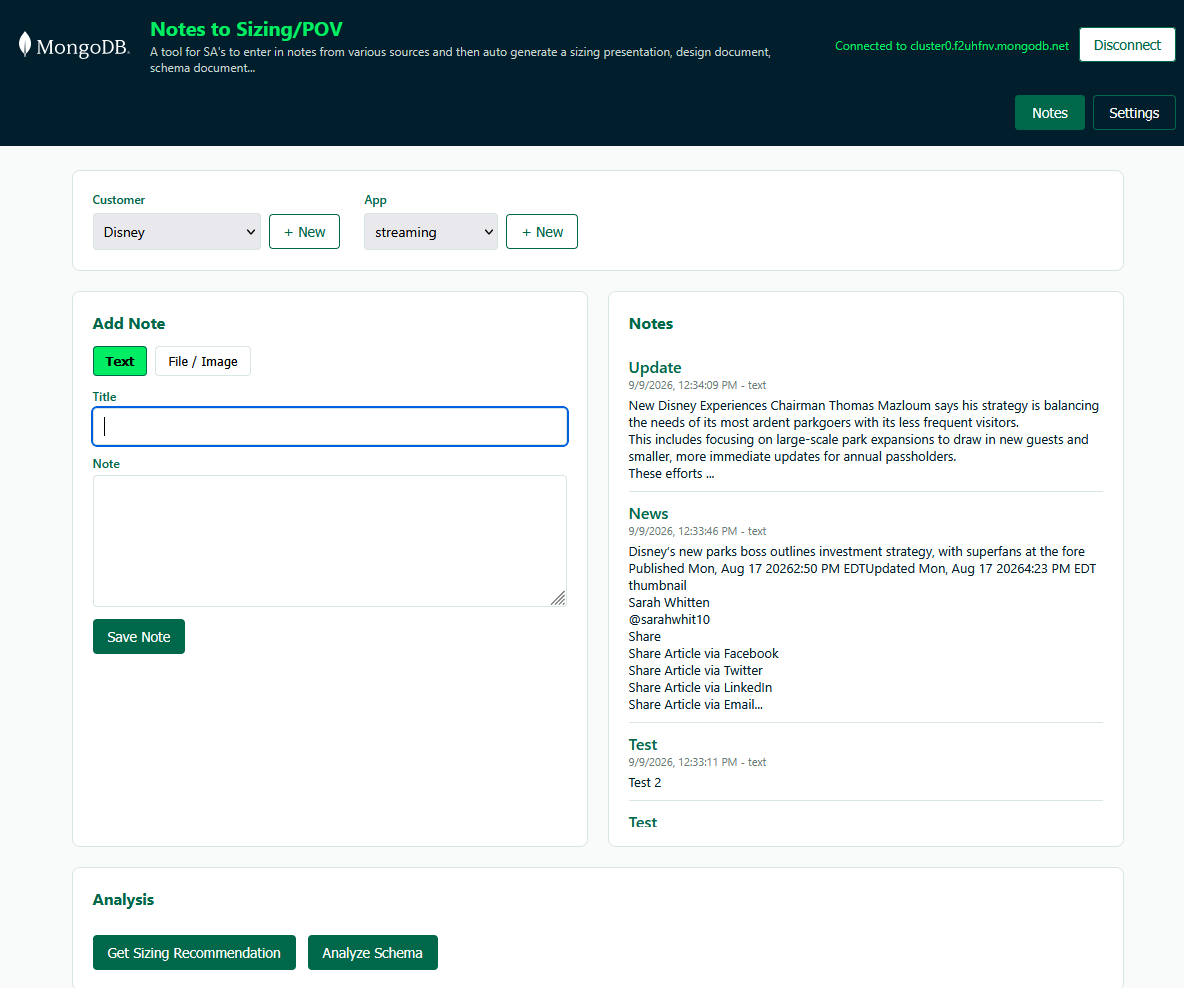
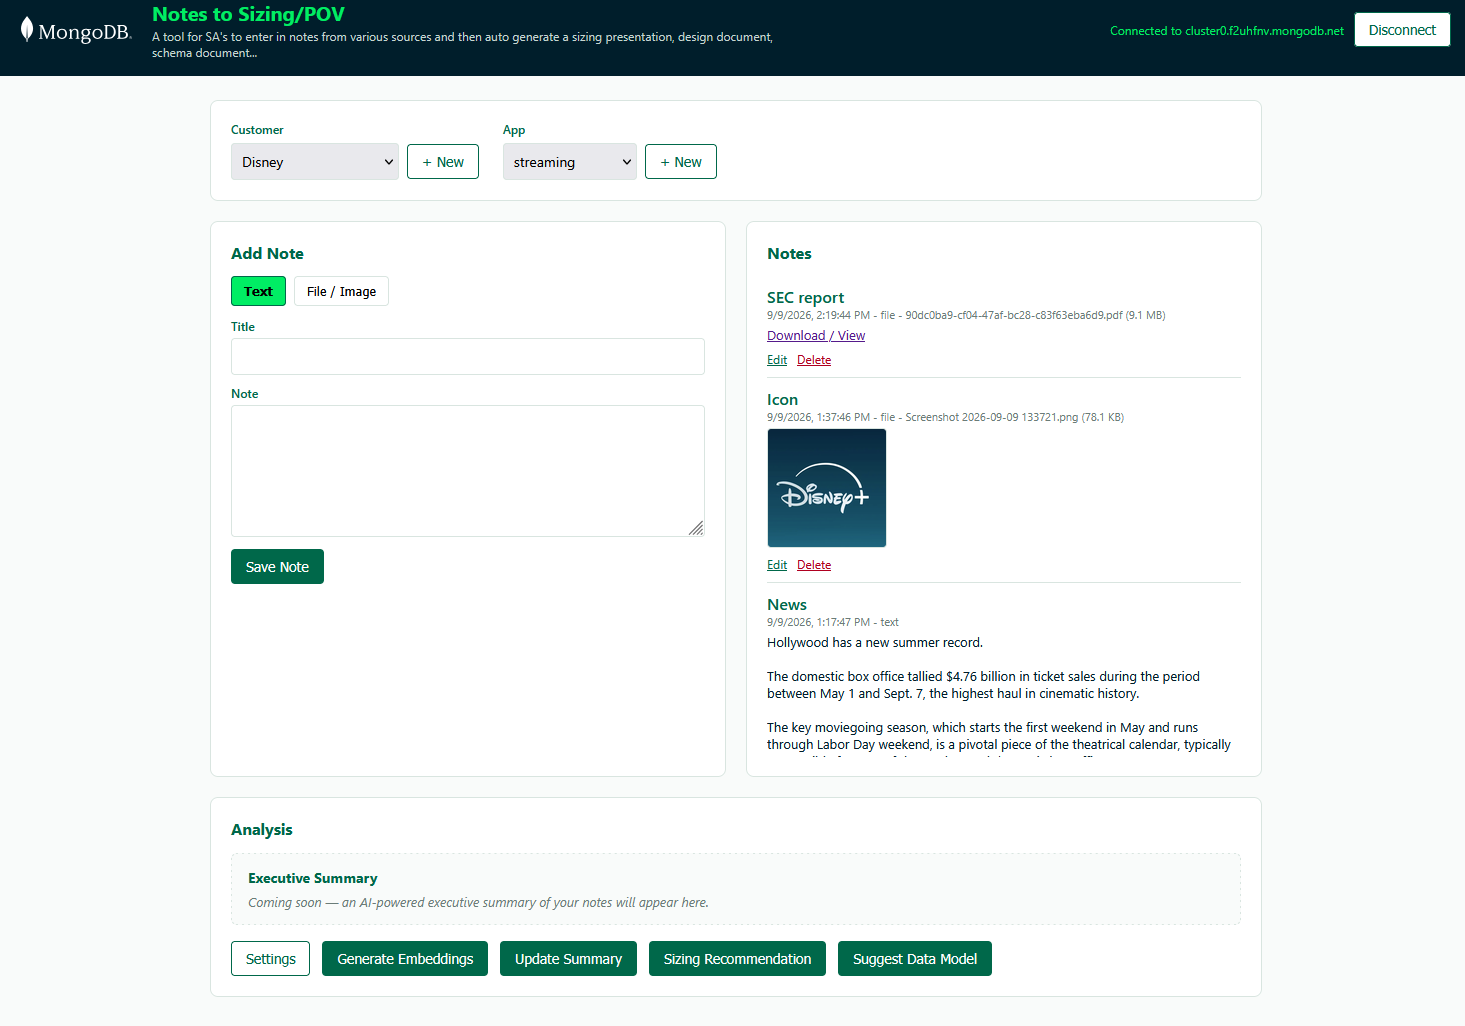
Replace screenshots with 3 new ones, add Synthesize Data button
- Replaced screenshots/notes-view.png with a newer capture showing the
  live app (notes list with PDF/image/text notes, Analysis card with
  Executive Summary placeholder and full button row)
- Added screenshots/sizing-calculator.png (Sizing Recommendation form +
  discovery-questions fallback output) and screenshots/settings-pricing.png
  (Tier Pricing table + Save and go back to Notes button)
- All 3 added to README in timestamp order with descriptive captions
- .DS_Store confirmed already covered by existing .gitignore rule
  (matches at any depth, not just root) - never tracked

- Added disabled 'Synthesize Data' button after 'Suggest Data Model' in
  the Analysis row, with 'Coming soon: Generate synthetic sample data
  based on the suggested data model' tooltip, matching the existing
  placeholder pattern (Generate Embeddings, Update Summary)

diff --git a/public/index.html b/public/index.html
@@ -120,6 +120,7 @@
             <button id="update-summary-btn" class="btn-primary" type="button" disabled title="Coming soon: Update the Executive Summary with an AI-generated summary of your notes">Update Summary</button>
             <button id="sizing-btn" class="btn-primary" type="button" title="Run the sizing calculator based on settings.">Sizing Recommendation</button>
             <button id="schema-btn" class="btn-primary" type="button" title="Create a suggested data model to store the customer's data">Suggest Data Model</button>
+            <button id="synthesize-data-btn" class="btn-primary" type="button" disabled title="Coming soon: Generate synthetic sample data based on the suggested data model">Synthesize Data</button>
           </div>
 
           <div id="sizing-form" class="inline-form sizing-form hidden">

diff --git a/README.md b/README.md
@@ -4,7 +4,11 @@
 
 A single-user (per team), multi-customer web app for capturing engagement notes (text, files, images) per customer + app, and generating heuristic Atlas sizing recommendations and schema design findings from that data — output as copy-paste-ready text for use in decks/docs.
 
-![Notes to Sizing/POV — main notes view](screenshots/notes-view.png)
+![Notes to Sizing/POV — main notes view with notes list and Analysis card](screenshots/notes-view.png)
+
+![Sizing Recommendation calculator, showing the discovery-questions fallback when no data size is provided](screenshots/sizing-calculator.png)
+
+![Settings page — Tier Pricing table](screenshots/settings-pricing.png)
 
 ## Features
 
